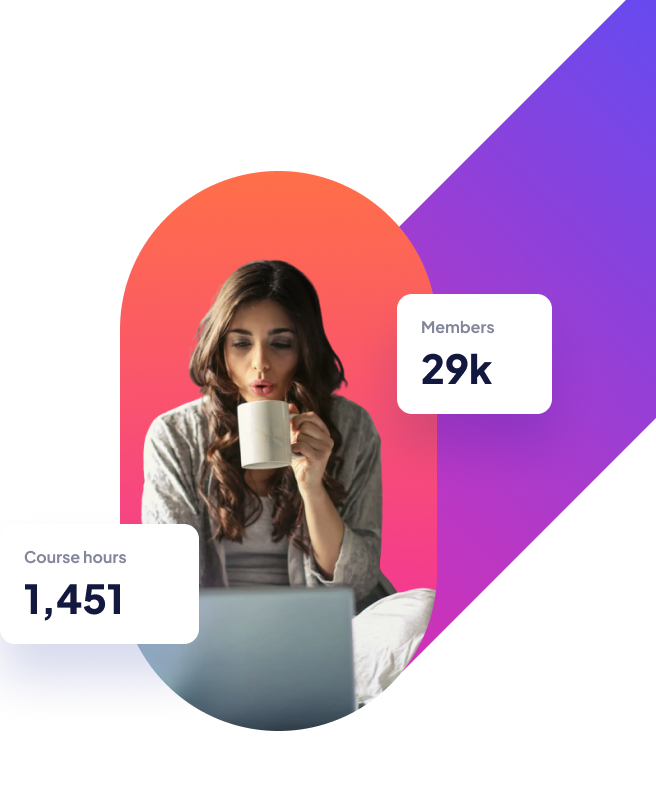
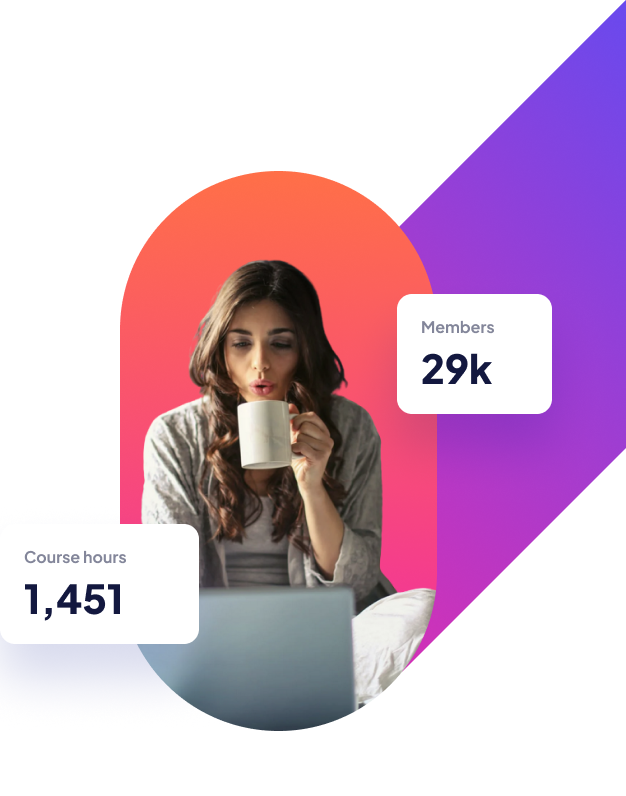
initial commit

diff --git a/main.css b/main.css
@@ -388,7 +388,7 @@ a:any-link {
   }
 
   .desktop.responsive-image img {
-    width: 656px;
+    width: 626px;
     height: auto;
     position: absolute;
     top: 0;
